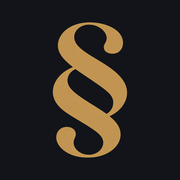
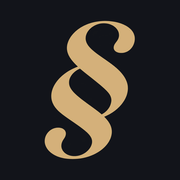
Фавиконка с наклоном и светлее

Changed region(s): [[0.2222, 0.1111, 0.75, 0.8889]]

diff --git a/index.html b/index.html
@@ -4,9 +4,9 @@
 <meta charset="utf-8">
 <meta name="viewport" content="width=device-width, initial-scale=1">
 <meta name="yandex-verification" content="dd46e5a4f862cda3">
-<link rel="icon" href="favicon.ico" sizes="any">
-<link rel="icon" href="favicon-120.png" type="image/png" sizes="120x120">
-<link rel="apple-touch-icon" href="apple-touch-icon.png">
+<link rel="icon" href="favicon.ico?v=2" sizes="any">
+<link rel="icon" href="favicon-120.png?v=2" type="image/png" sizes="120x120">
+<link rel="apple-touch-icon" href="apple-touch-icon.png?v=2">
 <title>Юрий — юрист с 25-летним стажем, Санкт-Петербург</title>
 <meta name="description" content="Юрий — юрист с 25-летним стажем в Санкт-Петербурге: гражданские и арбитражные дела, земельные и экологические споры, обжалование штрафов. Суды всех инстанций, включая Верховный суд РФ.">
 <link rel="preconnect" href="https://fonts.googleapis.com">
